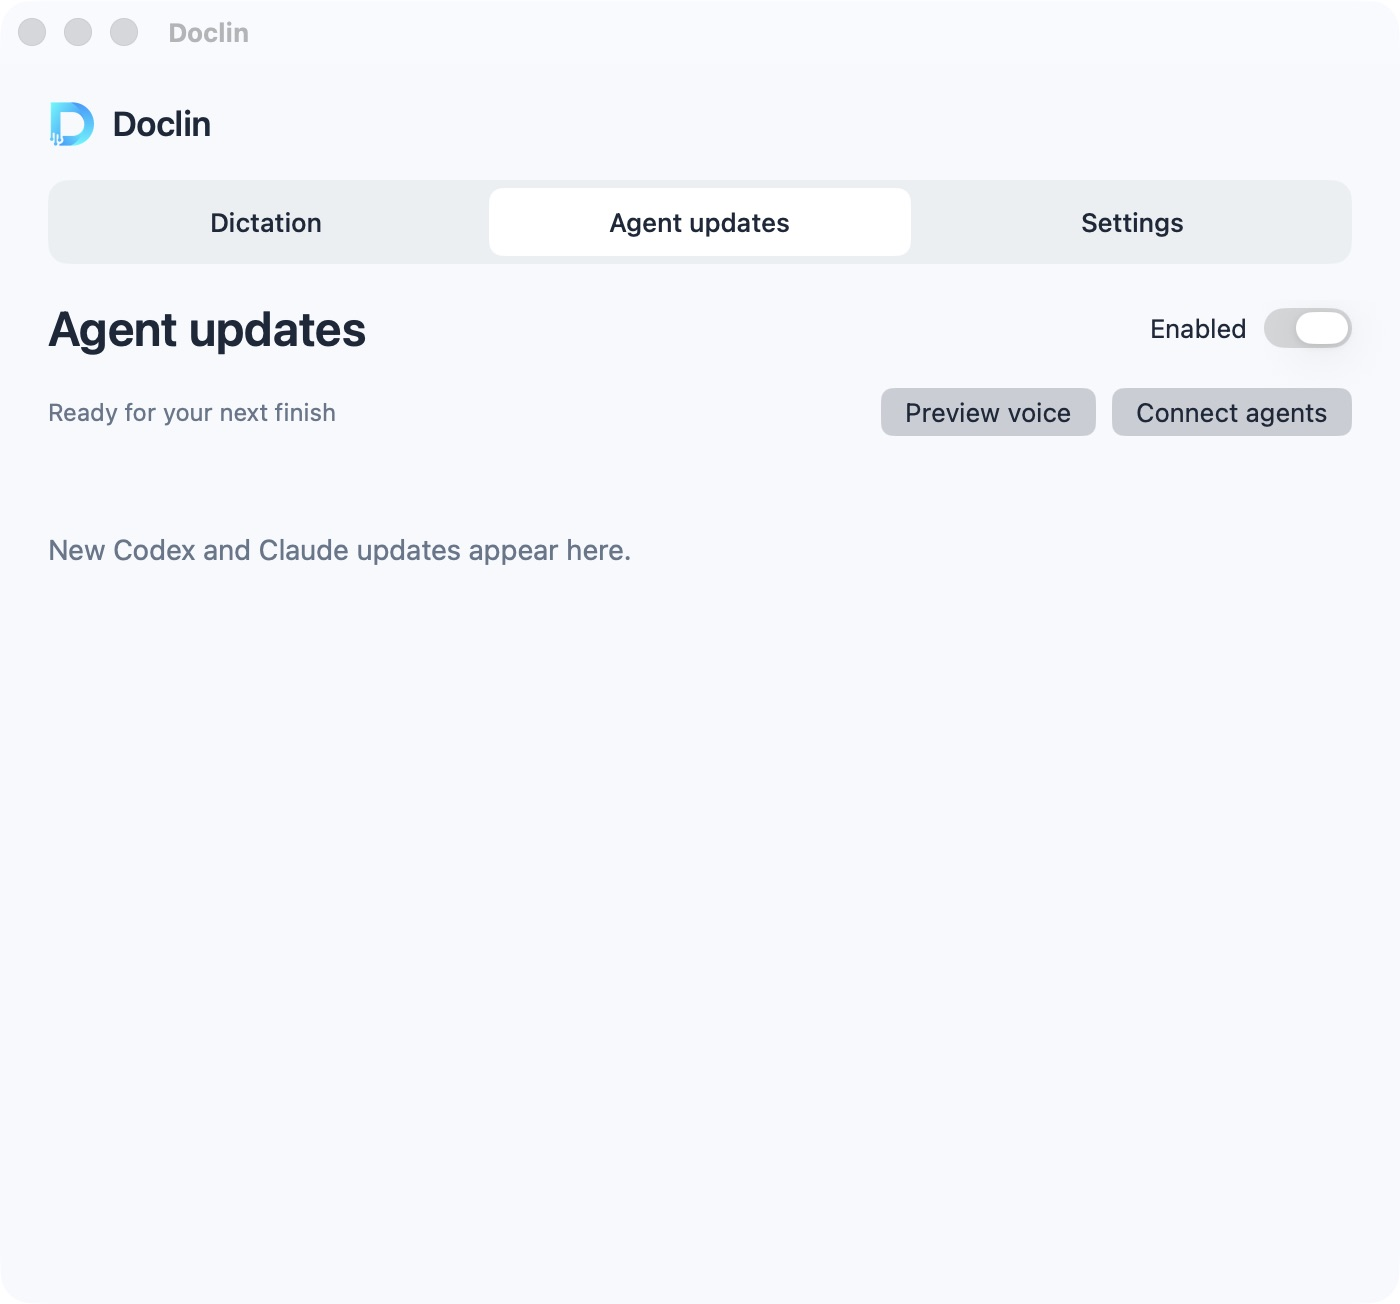
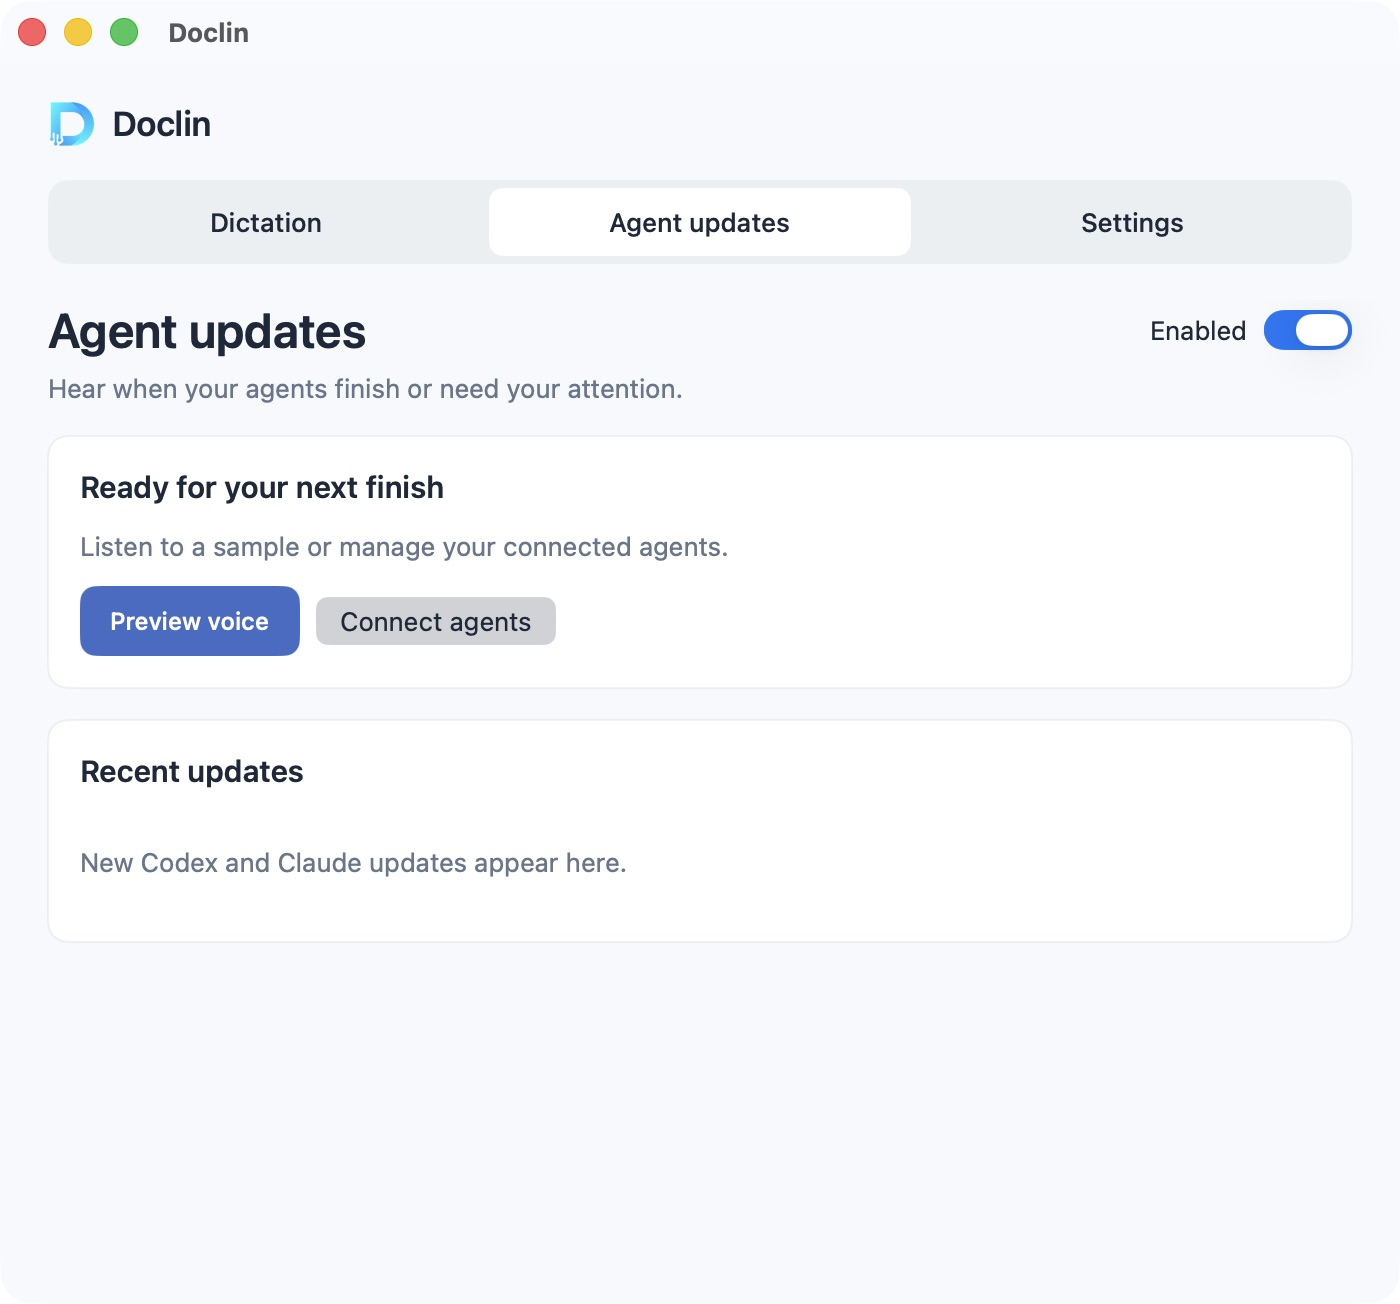
Unify tab content layout and simplify settings surfaces

diff --git a/Sources/Doclin/Views.swift b/Sources/Doclin/Views.swift
@@ -67,8 +67,8 @@ struct DoclinView: View {
         .onAppear { codexPath = model.preferences.codexHome }
     }
     private var settingsPage: some View {
-        VStack(alignment: .leading, spacing: 12) {
-            Text("Settings").font(.system(size: 24, weight: .semibold)).padding(.bottom, 4)
+        VStack(alignment: .leading, spacing: 16) {
+            DoclinPageHeader("Settings", subtitle: "Choose your voice, connected agents, and preferences.")
             settingSection("Voice", systemImage: "speaker.wave.2", route: "Voice & AI") { voiceSettings }
             settingSection("Agents", systemImage: "terminal", route: "Connections") { connections }
             settingSection("General", systemImage: "slider.horizontal.3", route: "Preferences") { preferences }
@@ -79,51 +79,57 @@ struct DoclinView: View {
             if model.tab == route { content().padding(.top, 12).padding(.horizontal, 16) }
         } label: {
             Label(title, systemImage: systemImage).font(.system(size: 14, weight: .medium))
-        }.background(Color.white, in: RoundedRectangle(cornerRadius: 10))
+        }.doclinSurface()
     }
     private var activity: some View {
         VStack(alignment: .leading, spacing: 16) {
-            HStack {
-                Text("Agent updates").font(.system(size: 24, weight: .semibold))
-                Spacer()
+            DoclinPageHeader("Agent updates", subtitle: "Hear when your agents finish or need your attention.") {
                 Toggle("Enabled", isOn: Binding(get: { !model.preferences.muted }, set: { enabled in
                     if model.preferences.muted != !enabled { model.toggleMute() }
                 })).toggleStyle(.switch).controlSize(.small)
             }
-            HStack {
-                Text(model.preferences.muted ? "Announcements paused" : model.status).font(.system(size: 12)).foregroundColor(mutedInk)
-                Spacer()
-                if model.speaking || model.pendingCount > 0 { Button("Stop") { model.stopAll() } }
-                Button("Preview voice") { model.preview() }.disabled(model.preferences.muted)
-                Button("Connect agents") { model.tab = "Connections" }
-            }
-            if model.history.isEmpty {
-                Text("New Codex and Claude updates appear here.").font(.system(size: 14)).foregroundColor(mutedInk).padding(.vertical, 32)
-            } else {
-                VStack(alignment: .leading, spacing: 0) {
-                    ForEach(Array(model.history.prefix(allUpdates ? model.history.count : 3))) { row in
-                        VStack(alignment: .leading, spacing: 6) {
-                            HStack {
-                                Text(row.event.source).font(.system(size: 11, weight: .medium))
-                                Text(row.state).font(.system(size: 11)).foregroundColor(mutedInk)
-                                Spacer()
-                                Text(row.event.timestamp, style: .time).font(.system(size: 11)).foregroundColor(mutedInk)
-                            }
-                            Text(row.text).font(.system(size: 14)).textSelection(.enabled)
-                        }.padding(.vertical, 13)
-                        Divider()
-                    }
-                }
+            DoclinCard {
+                Text(model.preferences.muted ? "Announcements paused" : model.status)
+                    .font(.system(size: 15, weight: .semibold))
+                Text("Listen to a sample or manage your connected agents.")
+                    .font(.system(size: 13)).foregroundColor(mutedInk)
                 HStack {
-                    if model.history.count > 3 { Button(allUpdates ? "Show less" : "Show all updates") { allUpdates.toggle() } }
+                    Button("Preview voice") { model.preview() }.buttonStyle(DoclinButton()).disabled(model.preferences.muted)
+                    Button("Connect agents") { model.tab = "Connections" }
                     Spacer()
-                    Button("Clear") { model.clearHistory() }
-                }.font(.system(size: 12))
+                    if model.speaking || model.pendingCount > 0 { Button("Stop") { model.stopAll() } }
+                }
+            }
+            DoclinCard {
+                Text("Recent updates").font(.system(size: 15, weight: .semibold))
+                if model.history.isEmpty {
+                    Text("New Codex and Claude updates appear here.").font(.system(size: 13)).foregroundColor(mutedInk).padding(.vertical, 16).frame(maxWidth: .infinity, alignment: .leading)
+                } else {
+                    VStack(alignment: .leading, spacing: 0) {
+                        ForEach(Array(model.history.prefix(allUpdates ? model.history.count : 3))) { row in
+                            VStack(alignment: .leading, spacing: 6) {
+                                HStack {
+                                    Text(row.event.source).font(.system(size: 11, weight: .medium))
+                                    Text(row.state).font(.system(size: 11)).foregroundColor(mutedInk)
+                                    Spacer()
+                                    Text(row.event.timestamp, style: .time).font(.system(size: 11)).foregroundColor(mutedInk)
+                                }
+                                Text(row.text).font(.system(size: 14)).textSelection(.enabled)
+                            }.padding(.vertical, 13)
+                            Divider()
+                        }
+                    }
+                    HStack {
+                        if model.history.count > 3 { Button(allUpdates ? "Show less" : "Show all updates") { allUpdates.toggle() } }
+                        Spacer()
+                        Button("Clear") { model.clearHistory() }
+                    }.font(.system(size: 12))
+                }
             }
         }
     }
     private var connections: some View {
-        VStack(alignment: .leading, spacing: 20) {
+        VStack(alignment: .leading, spacing: 16) {
             card {
                 HStack { Label("Codex", systemImage: "terminal").font(.system(size: 17, weight: .semibold)); Spacer(); Toggle("Announce", isOn: binding(\.codexEnabled)).toggleStyle(.switch).controlSize(.small) }
                 Text("Desktop + CLI").font(.system(size: 12, weight: .medium)).foregroundColor(accent)
@@ -137,6 +143,7 @@ struct DoclinView: View {
                 }.onAppear { codexPath = model.preferences.codexHome }
                 Text("Desktop session formats can change. Unknown events are ignored.").font(.system(size: 10)).foregroundColor(mutedInk)
             }
+            Divider()
             card {
                 HStack { Label("Claude Code", systemImage: "asterisk").font(.system(size: 17, weight: .semibold)); Spacer(); Toggle("Announce", isOn: binding(\.claudeEnabled)).toggleStyle(.switch).controlSize(.small) }
                 Text(model.claudeInstalled ? "Hooks installed" : "One-time connection").font(.system(size: 12, weight: .medium)).foregroundColor(accent)
@@ -147,7 +154,7 @@ struct DoclinView: View {
         }
     }
     private var voiceSettings: some View {
-        VStack(alignment: .leading, spacing: 20) {
+        VStack(alignment: .leading, spacing: 16) {
             card {
                 Text("Local voice").font(.system(size: 15, weight: .semibold))
                 Text("Output: \(model.outputName)").font(.system(size: 12)).foregroundColor(mutedInk)
@@ -180,7 +187,7 @@ struct DoclinView: View {
         }
     }
     private var preferences: some View {
-        VStack(alignment: .leading, spacing: 20) {
+        VStack(alignment: .leading, spacing: 16) {
             card {
                 Toggle("Start Doclin at login", isOn: Binding(get: { model.loginEnabled }, set: { model.setLogin($0) }))
                 DisclosureGroup("Announcement settings") {
@@ -192,6 +199,7 @@ struct DoclinView: View {
                   }.padding(.top, 10)
                 }
             }
+            Divider()
             card {
                 Label("Your conversations stay yours", systemImage: "lock.shield").font(.system(size: 15, weight: .semibold))
                 Text("Local dictation and voices stay on your Mac. Optional cloud features send selected audio or text to OpenAI.").font(.system(size: 12)).foregroundColor(mutedInk).lineSpacing(4)
@@ -208,7 +216,7 @@ struct DoclinView: View {
         Binding(get: { model.preferences[keyPath: path] }, set: { model.preferences[keyPath: path] = $0; model.save() })
     }
     private func card<Content: View>(@ViewBuilder _ content: () -> Content) -> some View {
-        VStack(alignment: .leading, spacing: 12, content: content).padding(18).frame(maxWidth: .infinity, alignment: .leading).background(Color.white, in: RoundedRectangle(cornerRadius: 13))
+        VStack(alignment: .leading, spacing: 12, content: content).frame(maxWidth: .infinity, alignment: .leading)
     }
 }
 struct DoclinButton: ButtonStyle {
@@ -249,5 +257,43 @@ private struct DoclinDisclosureRow: View {
                 .accessibilityValue(configuration.isExpanded ? "Expanded" : "Collapsed")
             if configuration.isExpanded { configuration.content.padding(.bottom, 12) }
         }
+    }
+}
+
+// Shared page structure keeps all three tabs aligned without adding navigation.
+struct DoclinPageHeader<Trailing: View>: View {
+    let title: String
+    let subtitle: String
+    let trailing: Trailing
+    init(_ title: String, subtitle: String, @ViewBuilder trailing: () -> Trailing) {
+        self.title = title; self.subtitle = subtitle; self.trailing = trailing()
+    }
+    var body: some View {
+        VStack(alignment: .leading, spacing: 6) {
+            HStack {
+                Text(title).font(.system(size: 24, weight: .semibold))
+                Spacer()
+                trailing
+            }.frame(minHeight: 30)
+            Text(subtitle).font(.system(size: 13)).foregroundColor(mutedInk)
+        }.frame(maxWidth: .infinity, alignment: .leading)
+    }
+}
+extension DoclinPageHeader where Trailing == EmptyView {
+    init(_ title: String, subtitle: String) {
+        self.init(title, subtitle: subtitle) { EmptyView() }
+    }
+}
+struct DoclinCard<Content: View>: View {
+    @ViewBuilder let content: Content
+    var body: some View {
+        VStack(alignment: .leading, spacing: 12) { content }
+            .padding(16).frame(maxWidth: .infinity, alignment: .leading).doclinSurface()
+    }
+}
+extension View {
+    func doclinSurface() -> some View {
+        background(Color.white, in: RoundedRectangle(cornerRadius: 10))
+            .overlay(RoundedRectangle(cornerRadius: 10).stroke(ink.opacity(0.06), lineWidth: 1).allowsHitTesting(false))
     }
 }

diff --git a/Sources/Doclin/DictationView.swift b/Sources/Doclin/DictationView.swift
@@ -14,14 +14,12 @@ struct DictationView: View {
     }
     var body: some View {
         VStack(alignment: .leading, spacing: 16) {
-            HStack {
-                Text("Dictation").font(.system(size: 24, weight: .semibold))
-                Spacer()
+            DoclinPageHeader("Dictation", subtitle: "Speak naturally. Your words appear where you work.") {
                 Toggle("Enabled", isOn: setting(\.enabled)).toggleStyle(.switch).controlSize(.small)
             }
-            VStack(alignment: .leading, spacing: 12) {
+            DoclinCard {
                 Text(controller.settings.enabled ? "Hold \(controller.shortcutLabel) to dictate" : "Turn on dictation to get started")
-                    .font(.system(size: 23, weight: .medium))
+                    .font(.system(size: 15, weight: .semibold))
                 Text(controller.settings.autoInsert ? "Speak, then release. Your words appear at your cursor." : "Speak, then release. Copy your words below.")
                     .font(.system(size: 13)).foregroundColor(.secondary)
                 HStack {
@@ -41,10 +39,10 @@ struct DictationView: View {
                             .font(.system(size: 11)).foregroundColor(.secondary)
                     }
                 }
-            }.padding(18).frame(maxWidth: .infinity, alignment: .leading).background(Color.white, in: RoundedRectangle(cornerRadius: 12))
+            }
             if needsSetup && controller.settings.enabled {
                 VStack(alignment: .leading, spacing: 10) {
-                    HStack { Text("Finish setup").font(.system(size: 13, weight: .semibold)); Spacer(); Button("Refresh") { controller.refreshPermissions() } }
+                    HStack { Text("Finish setup").font(.system(size: 15, weight: .semibold)); Spacer(); Button("Refresh") { controller.refreshPermissions() } }
                     if !controller.microphoneGranted { permission("Microphone") { controller.requestMicrophone() } }
                     if controller.settings.provider == "local" && !controller.modernReady && !controller.speechGranted { permission("Speech Recognition") { controller.requestSpeech() } }
                     if needsAccessibility && !controller.accessibilityGranted { permission("Accessibility · shortcut and insertion") { controller.openAccessibility() } }
@@ -55,12 +53,12 @@ struct DictationView: View {
                     Text("Previously denied? Enable Doclin in System Settings. Without Accessibility, use Try here and copy.").font(.system(size: 11)).foregroundColor(.secondary)
                 }.padding(14).background(accent.opacity(0.05), in: RoundedRectangle(cornerRadius: 10))
             }
-            VStack(alignment: .leading, spacing: 8) {
+            DoclinCard {
                 if controller.busy && !controller.partial.isEmpty {
                     Text(controller.partial).font(.system(size: 14)).foregroundColor(accent).lineLimit(3).accessibilityLabel("Live transcript")
                 }
                 HStack {
-                    Text(controller.busy ? "Last transcript" : "Your text").font(.system(size: 13, weight: .semibold))
+                    Text(controller.busy ? "Last transcript" : "Your text").font(.system(size: 15, weight: .semibold))
                     Spacer()
                     Button("Copy") { controller.copyTranscript() }.disabled(controller.transcript.isEmpty)
                     Button("Clear") { controller.clearTranscript() }.disabled(controller.busy || controller.transcript.isEmpty)
@@ -114,8 +112,8 @@ struct DictationView: View {
                             Text("Transcript is kept in memory until cleared or quit. Local audio is not saved by Doclin.").font(.system(size: 11)).foregroundColor(.secondary)
                         }.padding(.top, 8)
                     }
-                }.padding(.top, 12)
-            }.font(.system(size: 12))
+                }.padding(.top, 12).padding(.horizontal, 16)
+            }.font(.system(size: 13, weight: .medium)).doclinSurface()
         }.onAppear { controller.refreshPermissions() }
     }
     private func permission(_ title: String, action: @escaping () -> Void) -> some View {

diff --git a/docs/site/index.md b/docs/site/index.md
@@ -5,7 +5,7 @@ layout: page
 <div class="doclin-home">
   <h1>Dictate text. Hear your agents.</h1>
   <p class="lead">Dictation and spoken coding updates for Mac. Free and local by default.</p>
-  <a class="download" href="https://github.com/shawonibnkamal/doclin-macos/releases/download/v0.4.13/Doclin-0.4.13-mac.zip">Download Doclin for Mac</a>
+  <a class="download" href="https://github.com/shawonibnkamal/doclin-macos/releases/download/v0.4.14/Doclin-0.4.14-mac.zip">Download Doclin for Mac</a>
   <p class="download-note">macOS 13+ · Preview build · Not notarized</p>
   <p class="small-links"><a href="/setup">Installation help</a> · <a href="https://github.com/shawonibnkamal/doclin-macos">Source code</a></p>
   <img class="app-shot" src="/images/doclin-app.png" alt="Doclin's compact dictation window, with agent updates one click away" width="1400" height="1304" />

diff --git a/README.md b/README.md
@@ -16,7 +16,7 @@ See [dictation checks and limitations](DICTATION-QUALITY-QA.md).
 
 ## Download for Mac
 
-[Download Doclin 0.4.13](https://github.com/shawonibnkamal/doclin-macos/releases/download/v0.4.13/Doclin-0.4.13-mac.zip).
+[Download Doclin 0.4.14](https://github.com/shawonibnkamal/doclin-macos/releases/download/v0.4.14/Doclin-0.4.14-mac.zip).
 Unzip, move Doclin.app to Applications, and turn on Dictation. Allow Microphone
 and Accessibility, then hold Right Command in a text field to speak.
 

diff --git a/docs/site/setup.md b/docs/site/setup.md
@@ -1,6 +1,6 @@
 # Install Doclin
 
-[Download Doclin for Mac](https://github.com/shawonibnkamal/doclin-macos/releases/download/v0.4.13/Doclin-0.4.13-mac.zip).
+[Download Doclin for Mac](https://github.com/shawonibnkamal/doclin-macos/releases/download/v0.4.14/Doclin-0.4.14-mac.zip).
 
 1. Unzip the download and move **Doclin.app** to Applications.
 2. Open Doclin and turn on **Dictation**.
